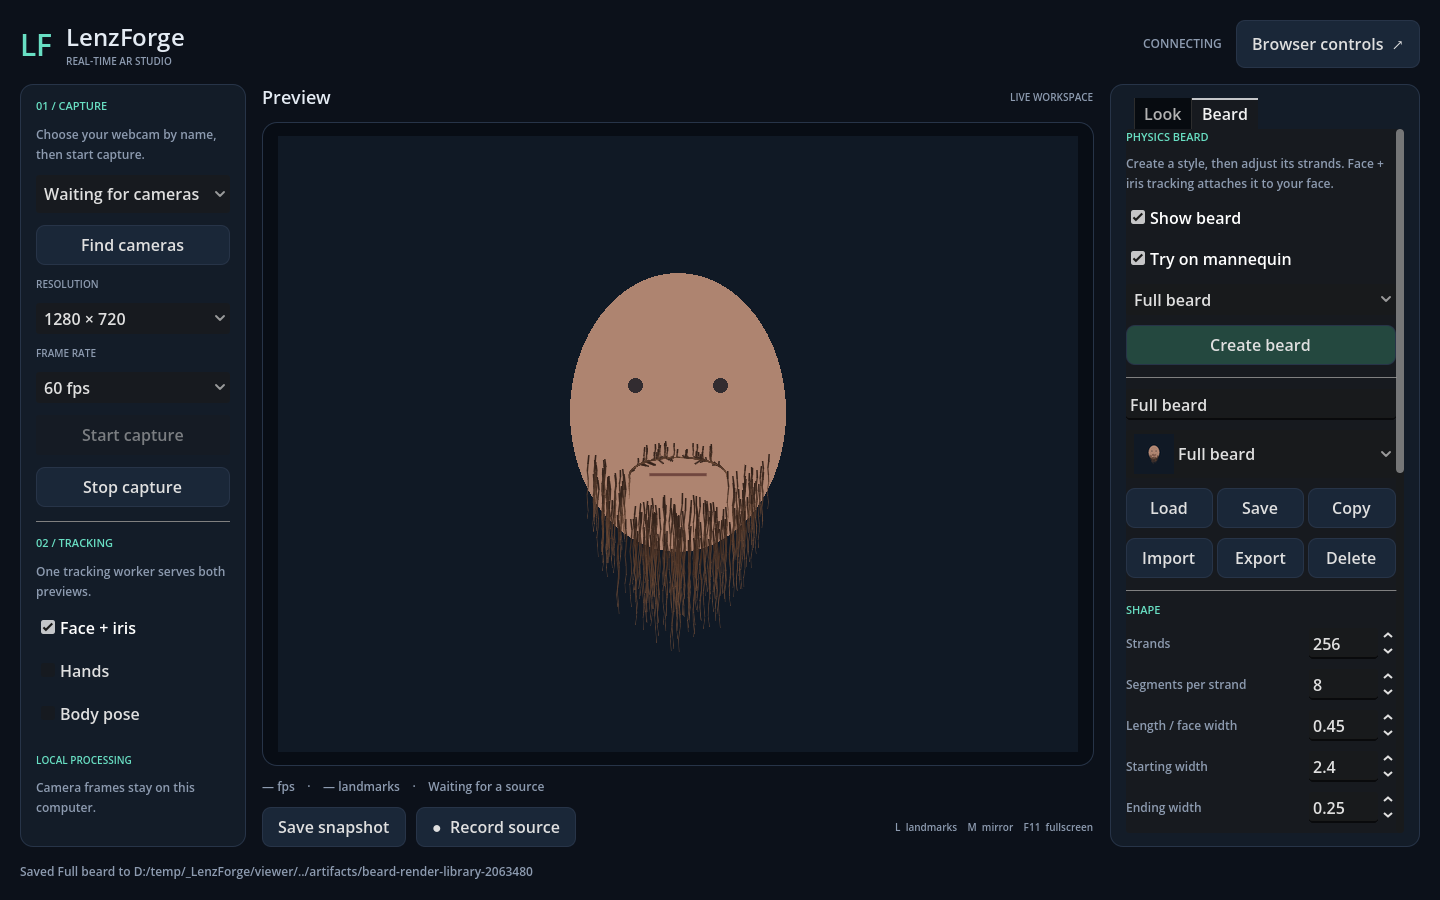
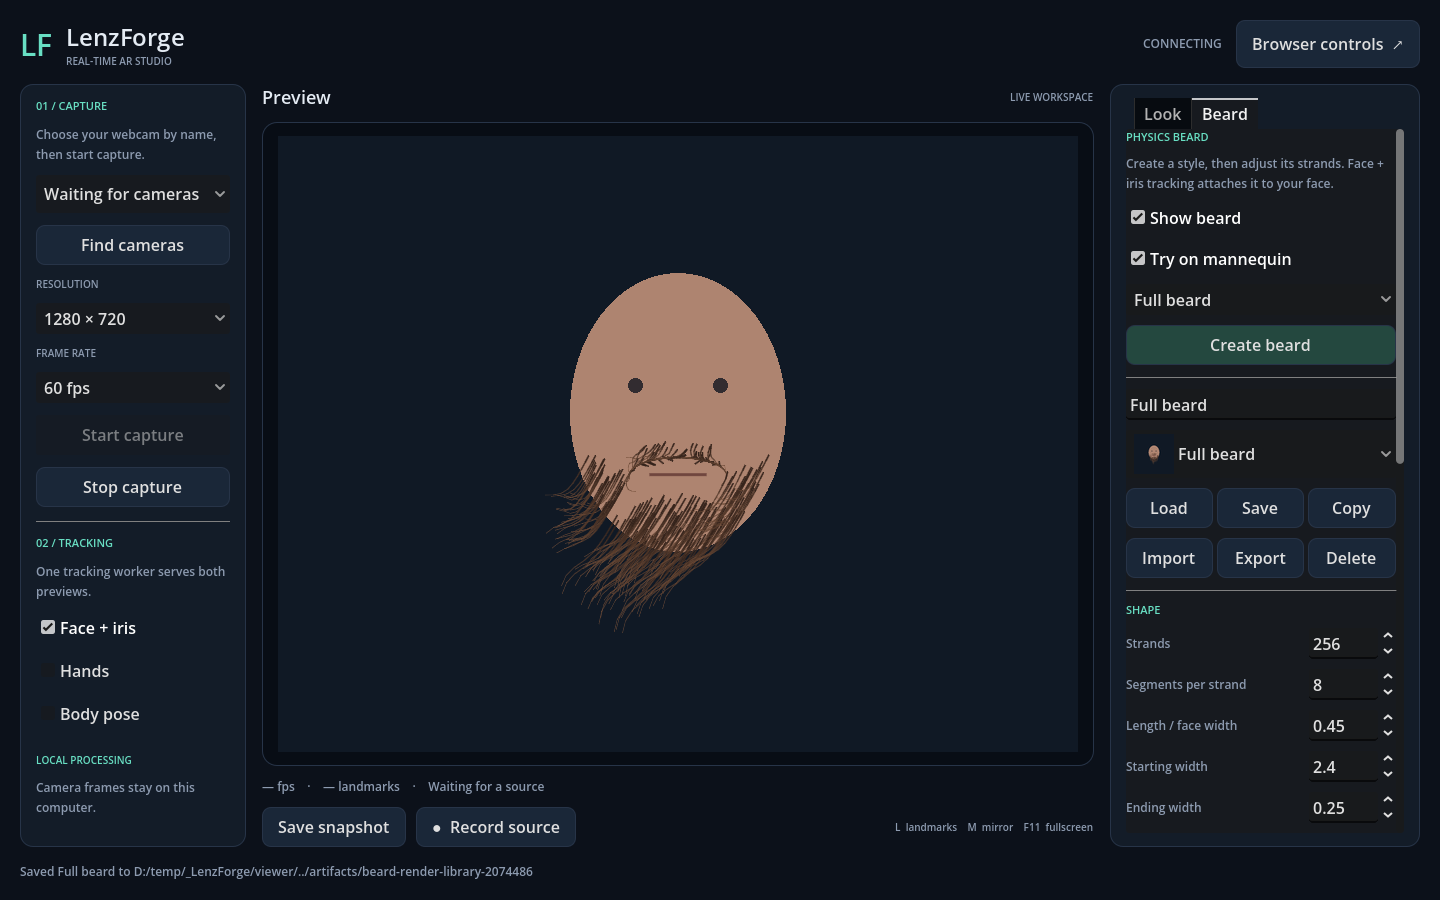
Make beard strands hang under gravity and retain head-motion inertia

Changed region(s): [[0.375, 0.4978, 0.5312, 0.7156]]

diff --git a/viewer/gdextension/lenzforge/src/beard_simulator.cpp b/viewer/gdextension/lenzforge/src/beard_simulator.cpp
@@ -18,7 +18,7 @@ void BeardSimulator::_bind_methods() {
 bool BeardSimulator::configure(int p_count, int p_segments, const Dictionary &settings, const PackedFloat32Array &data, const PackedVector2Array &steps) {
     if (p_count < 1 || p_count > 1024 || p_segments < 2 || p_segments > 16 || data.size() != p_count * 12) return false;
     const char *keys[] = {"length", "gravity", "wind", "turbulence", "damping", "stiffness"};
-    const double defaults[] = {.45, 3, 0, .25, .08, .35};
+    const double defaults[] = {.45, 3, 0, 0, .025, .4};
     const double minimum[] = {.02, 0, -10, 0, 0, 0}, maximum[] = {1.5, 12, 10, 5, .95, 1};
     double values[6];
     for (int i = 0; i < 6; ++i) {
@@ -40,6 +40,7 @@ bool BeardSimulator::configure(int p_count, int p_segments, const Dictionary &se
     count = p_count; segments = p_segments;
     length = values[0]; gravity = values[1]; wind = values[2]; turbulence = values[3]; damping = values[4]; stiffness = values[5];
     collisions = bool(settings.get("collisions", true));
+    preserve_shape = bool(settings.get("preserve_shape", false));
     attributes.resize(count);
     roots.resize(count); positions.resize(count * (segments + 1)); previous.resize(positions.size());
     directions.resize(count * segments); rest_lengths.resize(count * segments);
@@ -80,7 +81,10 @@ void BeardSimulator::reset() {
     for (int s = 0; s < count; ++s) {
         const int base = s * (segments + 1);
         positions[base] = roots[s];
-        for (int j = 1; j <= segments; ++j) positions[base+j] = positions[base+j-1] + rest_direction(s,j) * segment_length(s,j);
+        for (int j = 1; j <= segments; ++j) {
+            const Vector2 direction = preserve_shape ? rest_direction(s,j) : Vector2(0,1);
+            positions[base+j] = positions[base+j-1] + direction * segment_length(s,j);
+        }
     }
     previous = positions; initialized = count > 0; accumulator = 0;
 }
@@ -88,33 +92,41 @@ void BeardSimulator::advance(double delta) {
     if (!initialized || !std::isfinite(delta) || delta <= 0) return;
     constexpr double dt = 1.0 / 120.0;
     accumulator = std::min(accumulator + delta, dt * 4);
-    while (accumulator >= dt - 1e-9) { step(dt); accumulator -= dt; }
+    // Interpolate only the pinned roots across this frame's physics steps.
+    // The free points retain world-space momentum when the head moves or turns.
+    int remaining = std::min(4, int((accumulator + 1e-9) / dt));
+    while (remaining > 0) { step(dt, 1.0 / remaining); accumulator -= dt; --remaining; }
 }
-void BeardSimulator::step(double dt) {
+void BeardSimulator::step(double dt, double root_fraction) {
     clock += dt;
     const Vector2 right(down.y, -down.x);
     for (int s = 0; s < count; ++s) {
         const int base = s * (segments + 1);
         if (attributes[s].length < .00001) { for (int j=0; j<=segments; ++j) positions[base+j] = previous[base+j] = roots[s]; continue; }
-        // Share some root translation to keep rapid head movement bounded while
-        // retaining inertia. A discontinuity is handled by set_anchors/reset.
-        const Vector2 movement = roots[s] - positions[base];
+        const Vector2 root = positions[base].lerp(roots[s], root_fraction);
         for (int j = 1; j <= segments; ++j) {
             const int k = base+j;
             const Vector2 velocity = (positions[k] - previous[k]) * (1.0 - damping);
-            previous[k] = positions[k] + movement * .65;
-            const double gust = turbulence * std::sin(clock * 2.1 + s * .17 + j * .3);
-            positions[k] += movement * .65 + velocity + Vector2((wind + gust) * scale, gravity * scale) * (dt * dt);
+            previous[k] = positions[k];
+            const double gust = wind != 0 && turbulence > 0 ? turbulence * std::sin(clock * 2.1 + s * .17 + j * .3) : 0;
+            positions[k] += velocity + Vector2((wind + gust) * scale, gravity * scale) * (dt * dt);
         }
-        positions[base] = previous[base] = roots[s];
+        positions[base] = previous[base] = root;
         for (int iteration=0; iteration<4; ++iteration) {
             for (int j=1; j<=segments; ++j) {
                 const int k=base+j;
                 const double rest=segment_length(s,j);
-                positions[k] = positions[k].lerp(positions[k-1] + rest_direction(s,j) * rest, stiffness * .12);
+                if (preserve_shape && stiffness > 0)
+                    positions[k] = positions[k].lerp(positions[k-1] + rest_direction(s,j) * rest, stiffness * .12);
                 Vector2 diff = positions[k] - positions[k-1];
                 double distance = diff.length();
-                if (distance > 1e-8) positions[k] = positions[k-1] + diff * (rest / distance);
+                if (distance > 1e-8) {
+                    // Distribute tension between neighboring free points. Moving
+                    // only the child injects energy down the chain during a turn.
+                    const Vector2 correction = diff * (1.0 - rest / distance);
+                    if (j == 1) positions[k] -= correction;
+                    else { positions[k-1] += correction * .5; positions[k] -= correction * .5; }
+                }
                 if (collisions) {
                     Vector2 offset = positions[k] - mouth;
                     Vector2 local(offset.dot(right) / mouth_radii.x, offset.dot(down) / mouth_radii.y);
@@ -123,6 +135,23 @@ void BeardSimulator::step(double dt) {
                         local = radius > 1e-8 ? local / radius : Vector2(0, 1);
                         positions[k] = mouth + right * (local.x * mouth_radii.x) + down * (local.y * mouth_radii.y);
                     }
+                }
+            }
+        }
+        // Remove the small remaining stretch after the bounded solver passes.
+        // Keep collision projection last so points remain outside the lips.
+        for (int j=1; j<=segments; ++j) {
+            const int k=base+j;
+            const Vector2 diff=positions[k]-positions[k-1];
+            const double distance=diff.length();
+            if (distance > 1e-8) positions[k]=positions[k-1]+diff*(segment_length(s,j)/distance);
+            if (collisions) {
+                const Vector2 offset=positions[k]-mouth;
+                Vector2 local(offset.dot(right)/mouth_radii.x, offset.dot(down)/mouth_radii.y);
+                const double radius=local.length();
+                if (radius < 1.0) {
+                    local=radius > 1e-8 ? local/radius : Vector2(0,1);
+                    positions[k]=mouth+right*(local.x*mouth_radii.x)+down*(local.y*mouth_radii.y);
                 }
             }
         }

diff --git a/viewer/gdextension/lenzforge/src/beard_simulator.h b/viewer/gdextension/lenzforge/src/beard_simulator.h
@@ -28,9 +28,9 @@ protected:
 private:
     struct Strand { float length, root_width, tip_width, curl; float root[4], tip[4]; };
     int count = 0, segments = 0;
-    double length = .45, gravity = 3, wind = 0, turbulence = .25, damping = .08, stiffness = .35;
+    double length = .45, gravity = 3, wind = 0, turbulence = 0, damping = .025, stiffness = .4;
     double scale = 300, accumulator = 0, clock = 0;
-    bool initialized = false, collisions = true;
+    bool initialized = false, collisions = true, preserve_shape = false;
     godot::Vector2 down = godot::Vector2(0, 1), mouth, mouth_radii;
     std::vector<Strand> attributes;
     std::vector<godot::Vector2> roots, positions, previous;
@@ -38,7 +38,7 @@ private:
     std::vector<float> rest_lengths;
     godot::Vector2 rest_direction(int strand, int segment) const;
     double segment_length(int strand, int segment) const;
-    void step(double dt);
+    void step(double dt, double root_fraction);
 };
 }
 #endif

diff --git a/tools/check.py b/tools/check.py
@@ -22,7 +22,8 @@ def main():
     for name, extra in [('import', ['--import', '--frame-delay', '1000']),
                         ('viewer', ['--quit-after', '10']),
                         ('sources', ['--script', 'res://tests/studio_sources.gd']),
-                        ('beard', ['--script', 'res://tests/beard_probe.gd'])]:
+                        ('beard', ['--script', 'res://tests/beard_probe.gd']),
+                        ('beard-dynamics', ['--script', 'res://tests/beard_dynamics.gd'])]:
         result = subprocess.run([str(godot), '--headless', '--path', str(ROOT / 'viewer'),
             '--log-file', str(artifacts / f'{name}.log'), *extra], capture_output=True, text=True, timeout=90)
         output = result.stdout + result.stderr

diff --git a/docs/BEARD.md b/docs/BEARD.md
@@ -11,6 +11,8 @@ The desktop **Beard** tab creates and edits a beard attached to face landmarks. 
 3. To use your face, uncheck the mannequin, start your webcam, and keep **Face + iris** enabled. **Show beard** controls visibility. Tracking loss hides the beard and pauses physics; reacquiring a face resumes it.
 4. Scroll the right panel to reach shape, physics, and individual strand controls. Turn off landmark dots with **L** for a clearer preview.
 
+Strands hang straight down under gravity by default, even when your head is tilted. Head movement moves the roots while the rest of each strand retains momentum: faster turns produce larger swings. After you stop moving and turn wind off, damping settles the strands downward. Mouth collision can divert strands around the lips.
+
 The C++ extension must be rebuilt after updating an older checkout: close viewers and run `Setup.ps1 -SkipInstall`. The current working beard and visibility are restored when the desktop closes normally. Use the library to retain several designs.
 
 ## Controls
@@ -24,12 +26,13 @@ The C++ extension must be rebuilt after updating an older checkout: close viewer
 | Curl / length variation | Rest-shape curl and seeded variation between strands. |
 | Root / tip color | RGBA endpoint colors interpolated along the strand. |
 | Regrow strands | Generate new roots and length variation with a new seed. Individual overrides remain associated with strand indices. **Create beard** starts a fresh preset. |
-| Gravity | Downward acceleration in face widths per second squared. |
-| Horizontal wind / wind variation | Horizontal acceleration and time-varying gusts. Positive wind follows camera coordinates, which the mirror option can reflect. |
-| Damping | Removes a fraction of velocity each physics step. Higher values settle motion faster. |
-| Shape stiffness | Pulls toward the original curled or imported rest shape. Lower values let gravity and wind reshape the beard more. |
+| Gravity | Downward acceleration in face widths per second squared, independent of head tilt. Higher gravity speeds the fall and resists wind more strongly. Zero disables gravitational acceleration. |
+| Horizontal wind / wind variation | Horizontal acceleration and time-varying gusts. Gusts apply only when wind is nonzero, so zero wind is calm. Positive wind follows camera coordinates, which the mirror option can reflect. |
+| Damping | Removes a fraction of velocity each physics step; default 0.025. It controls how long motion persists. Very high damping can make falling sluggish. |
+| Preserve styled shape | Off by default, including for files saved before this option existed. Enable it to hold curls or an imported rest shape against gravity. |
+| Shape stiffness | Used only with **Preserve styled shape**. Pulls toward the original curled or imported shape. |
 | Keep strands out of mouth | Pushes simulated points outside an ellipse following the lips. |
-| Reset motion | Returns the strands to their rest shape and clears accumulated velocity. |
+| Reset motion | Clears velocity and hangs the strands downward, or restores their rest shape when **Preserve styled shape** is enabled. |
 
 Enable **Select strands in preview**, then click a root. The selected strand is highlighted. Its length multiplier, starting/ending widths, curl, and colors can override the global settings. **Hide this strand** sets its length to zero; **Restore strand defaults** removes its overrides. Turn selection off to drag the mannequin again.
 
@@ -51,7 +54,7 @@ The optional add-on is [`tools/blender_beard.py`](../tools/blender_beard.py). It
 4. Edit curve points in the local XY plane. Point radii control thickness; the first and last radii become the viewer's starting and ending widths. Keep the strand count/order, keep splines as Poly, and use 2–65 points per strand. Blender can subdivide existing splines for more control.
 5. With that object selected, choose **File → Export → LenzForge beard (.json)**, then import the result in LenzForge.
 
-The viewer resamples imported guides to its selected segment count, scales them to the strand's length, and uses them as physics rest shapes. Relative curve bends, length, endpoint widths, existing colors, and hidden strands survive the exchange. Editing an individual strand's **Curl** in LenzForge replaces its imported guide with a procedural curl; **Restore strand defaults** also removes the guide.
+The viewer resamples imported guides to its selected segment count, scales them to the strand's length, and stores them as physics rest shapes. Enable **Preserve styled shape** to retain these bends against gravity; leave it off for free-hanging strands. Relative curve bends, length, endpoint widths, existing colors, and hidden strands survive the exchange. Editing an individual strand's **Curl** in LenzForge replaces its imported guide with a procedural curl; **Restore strand defaults** also removes the guide.
 
 Geometry uses one face width as a unit, X right, Y up, Z zero. Root positions are rebound to the same face regions in LenzForge. Blender object transforms, Z depth, intermediate radius changes, materials, and particle hair systems are not imported. Apply desired bends in local XY coordinates; this bridge handles editable poly curves.
 
@@ -59,15 +62,15 @@ Geometry uses one face width as a unit, X right, Y up, Z zero. Root positions ar
 
 This is 2D physics over the camera preview. Roots follow face position, scale, roll, and local landmark deformation. There is no 3D head occlusion, hair-to-hair collision, or full skin collision; mouth collision is an ellipse approximation. Extreme profile views may need a future 3D attachment/rendering system.
 
-Physics runs in the C++ GDExtension at a fixed 120 Hz, with at most four catch-up steps. Strand points use contiguous arrays; rest directions are prepared only when a design changes. One instanced GPU batch draws all segments with taper and edge antialiasing. There is no scene node or rigid body per strand. Disabled or untracked beards stop simulation. The camera, shared-memory readers, and inference worker stay independent.
+Physics runs in the C++ GDExtension at a fixed 120 Hz, with at most four catch-up steps. Roots interpolate between tracking updates; free points retain world-space momentum. Neighboring free points share tension corrections, followed by a length correction pass. Strand points use contiguous arrays; rest directions are prepared only when a design changes. One instanced GPU batch draws all segments with taper and edge antialiasing. There is no scene node or rigid body per strand. Disabled or untracked beards stop simulation. The camera, shared-memory readers, and inference worker stay independent.
 
-On the development Ryzen 5 5500 / RX 7900 XTX machine, the default 256 × 8 beard averaged **0.67 ms** for physics plus packed upload preparation; 1,024 × 16 averaged **5.42 ms**. Both 20-second webcam runs reported 60 FPS rendering and about 60 FPS capture. These costs exclude landmark attachment, GPU completion, and presentation; see [measurements and limits](PERFORMANCE.md#beard-physics).
+On the development Ryzen 5 5500 / RX 7900 XTX machine, the corrected free-hanging solver at the default 256 × 8 size averaged **0.57 ms** for physics plus packed upload preparation. The 20-second webcam run reported 60 FPS rendering and about 60 FPS capture. These costs exclude landmark attachment, GPU completion, and presentation; see [measurements and limits](PERFORMANCE.md#beard-physics), including the earlier solver's maximum-density run.
 
 Desktop snapshots include the beard and studio controls. Source recordings and browser previews do not include the desktop beard. A composed-video/virtual-camera output remains separate work.
 
 ## Validation
 
-`tools/check.py` runs profile/library/native physics checks alongside the existing capture tests. It covers deterministic roots, gravity/wind, pinned roots, segment lengths, mouth collision, bounded catch-up, invalid input, hidden strands, face loss, individual overrides, maximum-size files, imported guides, mirroring, and resizing. Python tests validate the Blender interchange math.
+`tools/check.py` runs profile/library/native physics checks alongside the existing capture tests. It covers deterministic roots, gravity/wind, pinned roots, segment lengths, mouth collision, bounded catch-up, invalid input, hidden strands, face loss, individual overrides, maximum-size files, imported guides, mirroring, and resizing. Dynamics regressions compare gravity/wind strengths, slow/fast head turns, calm settling at a tilted head angle, and equivalent motion delivered at 30/60/120 Hz. Python tests validate the Blender interchange math.
 
 Additional checks requiring a graphics context or Blender:
 

diff --git a/docs/ARCHITECTURE.md b/docs/ARCHITECTURE.md
@@ -63,7 +63,9 @@ The video reader copies directly into packed upload planes, reuses image/texture
 
 `viewer/beard/beard_profile.gd` owns bounded, versioned settings, deterministic barycentric root bindings, and guide resampling. `beard_layer.gd` converts current face landmarks into unmirrored video-space anchors; a final canvas transform handles the same mirror/letterboxing as video. Face loss pauses the solver, and large pose/scale discontinuities reset it. The editor, library, and Blender bridge share the same JSON model.
 
-`BeardSimulator` in the C++ extension stores roots, positions, previous positions, and rest directions in contiguous arrays. Fixed 120 Hz integration and four constraint iterations apply gravity, wind, damping, shape stiffness, pinned roots, segment lengths, and optional lip-ellipse collision. Catch-up is capped at four steps to prevent long stalls from creating a simulation backlog. Configurations are bounded at 1,024 strands and 16 segments.
+`BeardSimulator` in the C++ extension stores roots, positions, previous positions, and rest directions in contiguous arrays. Fixed 120 Hz integration applies world-down gravity, wind, damping, and optional shape preservation. Only roots follow the face; free points retain momentum, so faster head turns produce larger swings. Root interpolation across substeps keeps the response consistent across display rates. Wind variation is inactive when wind is zero.
+
+Four constraint iterations distribute tension corrections between neighboring free points, followed by a final length/collision pass. Moving only the downstream point produced poor dynamic behavior in the first solver; this asymmetric-mass issue is also discussed in [Fast Simulation of Inextensible Hair and Fur, §3.2](https://matthias-research.github.io/pages/publications/FTLHairFur.pdf). Catch-up is capped at four steps to prevent long stalls from creating a simulation backlog. Configurations are bounded at 1,024 strands and 16 segments. Existing beard files default to free-hanging motion; their styled guides remain available through the explicit **Preserve styled shape** option.
 
 Rendering uses one `MultiMeshInstance2D` with one quad per segment. Each instance has an eight-float 2D transform, four color floats, and four custom floats carrying taper widths. The shader antialiases the tapered edges; the CPU prepares one packed buffer per display frame. Root bindings and rest guides are rebuilt only when settings change. Individual selection highlighting is a separate lightweight overlay used only in edit mode.
 

diff --git a/docs/PERFORMANCE.md b/docs/PERFORMANCE.md
@@ -34,7 +34,7 @@ DirectShow/MJPEG, global timer-period changes, and reduced OpenCV thread counts 
 
 ## Beard physics
 
-Two additional 20-second runs used the same webcam, 720p/60 FPS setting, face tracking, and landmark overlay, with the native beard enabled. Both used the debug viewer extension built by Setup; no browser or recording was active.
+Two initial beard runs (commit `84daf2b`) used the same webcam, 720p/60 FPS setting, face tracking, and landmark overlay, with the native beard enabled. Both used the debug viewer extension built by Setup; no browser or recording was active.
 
 | Measurement | Default: 256 strands × 8 segments | Maximum: 1,024 strands × 16 segments |
 | --- | ---: | ---: |
@@ -53,6 +53,8 @@ Raw reports: [default beard](performance/beard-256.json), [maximum beard](perfor
 The runs are separate observations, not a controlled claim that adding a beard improves preview FPS. Delivery and VSync phase vary as described above. Defaults remain 256 strands and 8 segments to preserve headroom. Disabling the beard stops simulation; loss of a tracked face hides it and pauses work. Counts and physics catch-up are bounded.
 
 To profile a beard, append `--beard --beard-strands 256 --beard-segments 8` to the benchmark below. The maximum supported values are 1,024 and 16. The command changes only its temporary viewer session; it does not overwrite the user's saved design.
+
+After the free-hanging physics correction, another 20-second run at 256 × 8 measured **0.57 ms mean / 0.68 ms p95** for physics and upload preparation, **60 renderer FPS**, **59.93 capture FPS**, and **52.2 distinct preview frames/sec**. All 1,045 delivered frames had a live beard sample (the interval counter is one smaller). The [raw report](performance/beard-free.json) uses the same timing boundaries. This is another short observation, not a controlled performance comparison with the earlier solver.
 
 ## Reproduce
 
